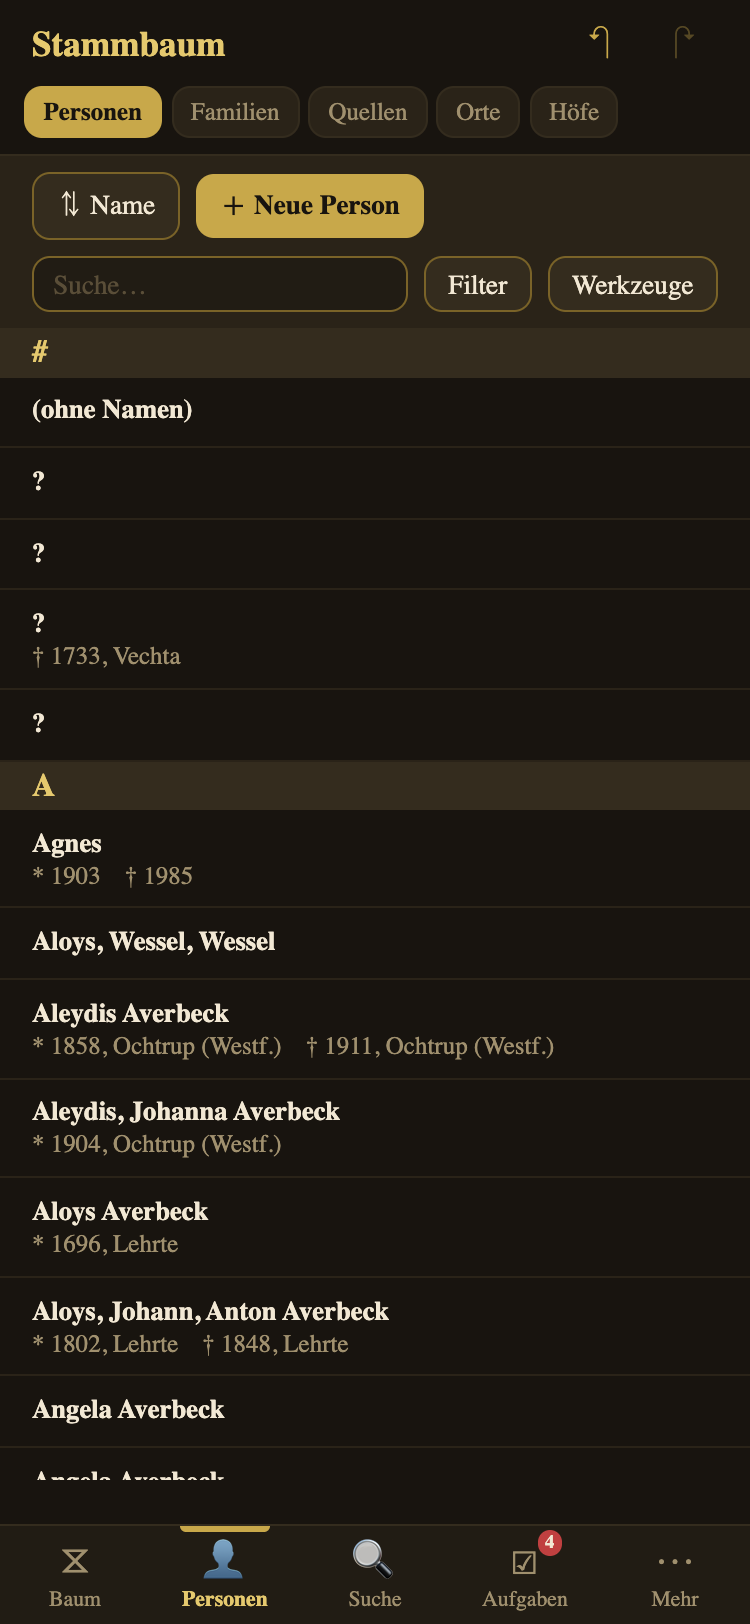
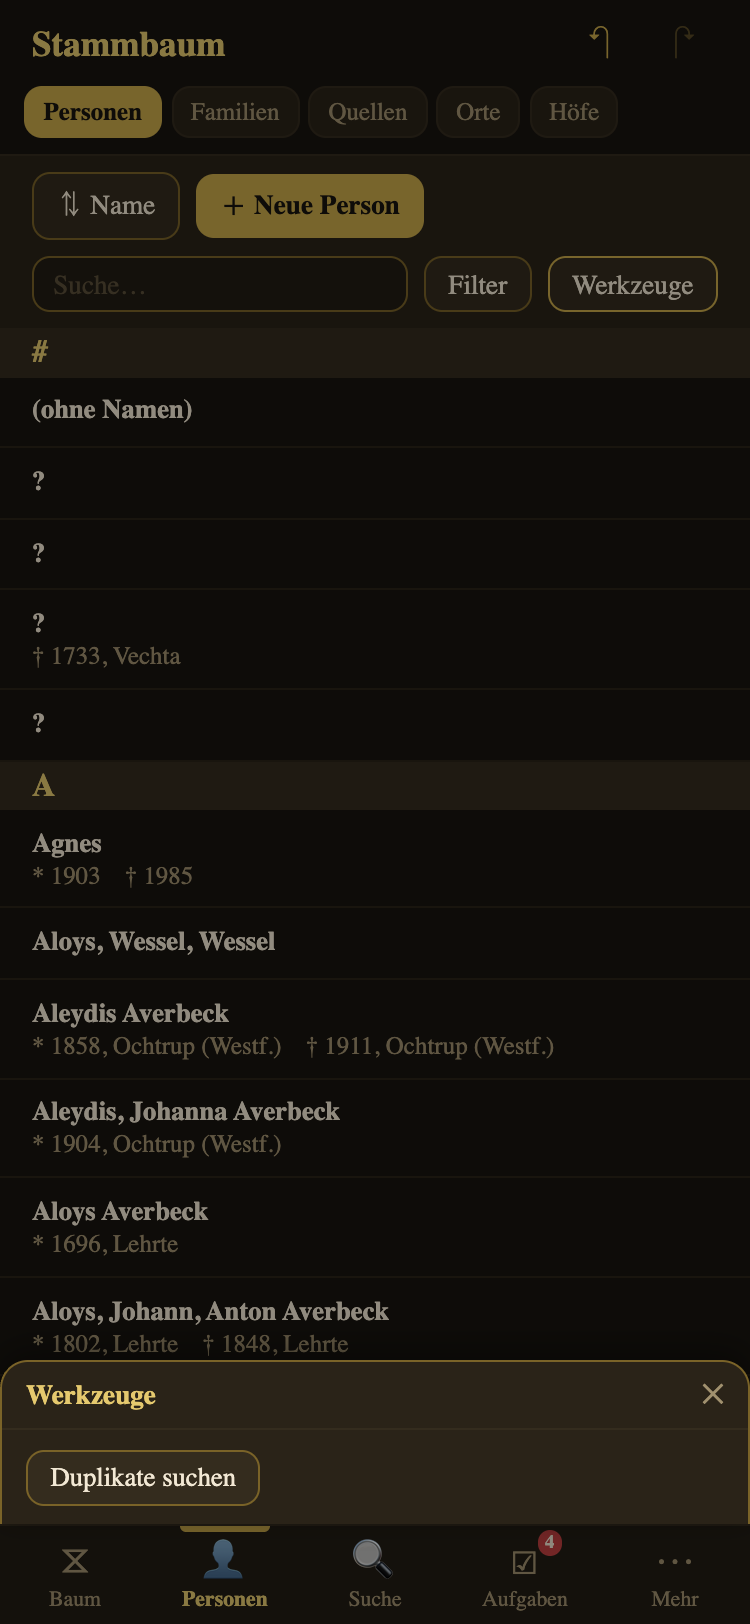
fix(ui): Heirat-„Y"-Leck, redundanter Quellen-Kontext + Handbuch-Klickhilfe
Drei aus dem Handbuch-Review belegte Defekte (Maßstab: realer Code):

#1  GEDCOM-Struktur-Flag value='Y' ("Ereignis fand statt, keine Details")
    erscheint nicht mehr als nackter Wert ("Heirat Y"). Zentral in der
    geteilten EventLine gefiltert (displayEventValue), damit MARR/ENGA die
    längst gelöste Todes-Sonderbehandlung mitziehen (INV-UI-4). Rein
    anzeigeseitig — Rohwert im Modell/Export unangetastet (LP-1).

#2  Quelle-Detail zeigt den Referenz-Kontext nur noch im Gruppen-Header
    ("Person (1)") statt zusätzlich je Zeile, und rendert Seitenangaben nur
    mit bezeichnendem Inhalt (hasPageContent) — kein "S. )" mehr aus dem
    Anonymisierungs-Rest "2 PAGE )".

#4  capture.mjs bevorzugt bei EXAKT-Treffern echte Bedien-Elemente vor
    umschließenden div/span (Wrapper-Klick löste den Button-onclick nicht
    aus) — die Filter/Werkzeuge-Panels erscheinen jetzt in 02/03.
    contains-Treffer bleiben unverändert (Personen-/Familienauswahl stabil).

Screenshots 02/03/07/09 neu erzeugt — reine Korrektur, keine Version/
Changelog/HTML-Änderung. Alle 1319 UI-Tests grün, lint grün.

diff --git a/tests/ui/SourceDetail.component.test.ts b/tests/ui/SourceDetail.component.test.ts
@@ -32,7 +32,9 @@ describe('SourceDetail — Referenzen inkl. PAGE/QUAY (Component)', () => {
     render(SourceDetail, { props: { appState, viewState, ...baseProps() } });
 
     expect(screen.getByText('Anna Bauer')).toBeTruthy();
-    expect(screen.getByText('Geburt')).toBeTruthy();
+    // #2 (2026-07-25): der Kontext ("Geburt") steht NUR im Gruppen-Header, nicht mehr
+    // zusätzlich je Zeile — deshalb hier gegen den Header "Geburt (1)" geprüft.
+    expect(screen.getByText('Geburt (1)')).toBeTruthy();
     expect(screen.getByText('S. 12')).toBeTruthy();
     expect(screen.getByText('QUAY 3')).toBeTruthy();
   });
@@ -84,6 +86,46 @@ describe('SourceDetail — Referenzen inkl. PAGE/QUAY (Component)', () => {
   });
 });
 
+describe('SourceDetail — Anzeige-Härtung (#2, 2026-07-25)', () => {
+  it('rendert KEIN "S. )" für eine Seitenangabe ohne bezeichnenden Inhalt (Anonymisierungs-Rest "2 PAGE )")', () => {
+    const appState = createAppState();
+    const viewState = createViewState();
+    const db = makeDatabase();
+    const p = makePerson('@I1@', { given: 'Anna', surname: 'Bauer' });
+    p.birth.citations.push(makeCitation('@S1@', { page: ')', quay: 3 }));
+    db.individuals.set('@I1@', p);
+    db.sources.set('@S1@', makeSource('@S1@', { abbr: 'KB' }));
+    appState.loadDatabase(db, 'test.ged');
+    viewState.setCurrent('source', '@S1@');
+
+    render(SourceDetail, { props: { appState, viewState, ...baseProps() } });
+
+    // Zeile erscheint (Person + QUAY), aber ohne die sinnlose Seitenangabe.
+    expect(screen.getByText('Anna Bauer')).toBeTruthy();
+    expect(screen.getByText('QUAY 3')).toBeTruthy();
+    expect(screen.queryByText(/S\./)).toBeNull();
+  });
+
+  it('wiederholt den Kontext NICHT je Zeile (steht nur im Gruppen-Header)', () => {
+    const appState = createAppState();
+    const viewState = createViewState();
+    const db = makeDatabase();
+    const p = makePerson('@I1@', { given: 'Anna', surname: 'Bauer' });
+    p.birth.citations.push(makeCitation('@S1@', { page: '12' }));
+    db.individuals.set('@I1@', p);
+    db.sources.set('@S1@', makeSource('@S1@'));
+    appState.loadDatabase(db, 'test.ged');
+    viewState.setCurrent('source', '@S1@');
+
+    render(SourceDetail, { props: { appState, viewState, ...baseProps() } });
+
+    // "Geburt" erscheint GENAU einmal — als Gruppen-Header "Geburt (1)", nicht zusätzlich
+    // als nackter Kontext-Text in der Zeile (früher doppelt).
+    expect(screen.getByText('Geburt (1)')).toBeTruthy();
+    expect(screen.queryByText('Geburt')).toBeNull();
+  });
+});
+
 describe('SourceDetail — Referenzen gruppiert + paginiert (Spec 21 §10b)', () => {
   it('gruppiert Referenzen nach Kontext-Typ mit "Typ (N)"-Untertitel', () => {
     const appState = createAppState();
@@ -121,18 +163,22 @@ describe('SourceDetail — Referenzen gruppiert + paginiert (Spec 21 §10b)', ()
     const groupHeader = screen.getByText('Geburt (45)');
     expect(groupHeader).toBeTruthy();
     expect(groupHeader.getAttribute('aria-expanded')).toBe('false');
-    expect(screen.queryAllByText('Geburt')).toHaveLength(0);
+    // #2 (2026-07-25): sichtbare Zeilen werden über die Eigentümer-Buttons gezählt (der
+    // frühere Zähl-Anker, die je Zeile wiederholte Kontext-Beschriftung "Geburt", ist als
+    // Redundanz entfallen — der Kontext steht jetzt nur im Gruppen-Header).
+    const ownerRows = () => screen.queryAllByRole('button', { name: /Person\d+ Bauer/ });
+    expect(ownerRows()).toHaveLength(0);
 
     await fireEvent.click(groupHeader);
 
     expect(groupHeader.getAttribute('aria-expanded')).toBe('true');
-    expect(screen.getAllByText('Geburt')).toHaveLength(30);
+    expect(ownerRows()).toHaveLength(30);
     const loadMoreBtn = screen.getByText('15 weitere laden');
     expect(loadMoreBtn).toBeTruthy();
 
     await fireEvent.click(loadMoreBtn);
 
-    expect(screen.getAllByText('Geburt')).toHaveLength(45);
+    expect(ownerRows()).toHaveLength(45);
     expect(screen.queryByText(/weitere laden/)).toBeNull();
   });
 });

diff --git a/tests/ui/EventLine.component.test.ts b/tests/ui/EventLine.component.test.ts
@@ -5,7 +5,7 @@
 import { describe, expect, it, vi } from 'vitest';
 import { render, screen, fireEvent } from '@testing-library/svelte';
 import EventLine from '../../ui/shell/EventLine.svelte';
-import { dedupeAddrNote, type EventLineRow } from '../../ui/shell/event-line-row';
+import { dedupeAddrNote, displayEventValue, type EventLineRow } from '../../ui/shell/event-line-row';
 import { createAppState } from '../../ui/shell/app-state.svelte';
 import { createViewState } from '../../ui/shell/view-state.svelte';
 import { makeCitation, makeDatabase, makeSource } from '../../core/model';
@@ -379,6 +379,63 @@ describe('EventLine — Note/Addr/Value', () => {
     });
 
     expect(container.querySelector('.event-line__note')?.textContent).toBe('zusätzliche Anmerkung');
+  });
+});
+
+// #1 (2026-07-25): GEDCOM-Struktur-Flag `value='Y'` ("Ereignis fand statt, keine
+// Details") darf NICHT als nackter Wert erscheinen — die auslösende Beobachtung war
+// "Heirat Y" im Familien-Detail. Zentral in der geteilten Ereigniszeile gefiltert, damit
+// die strukturgleiche Geschwister-Stelle zur längst gelösten Todes-Sonderbehandlung
+// mitzieht (INV-UI-4).
+describe('EventLine — GEDCOM-Flag value="Y" wird nicht als Wert angezeigt (#1)', () => {
+  it('zeigt für eine Heirat mit value="Y" KEINEN Wert-Text', () => {
+    const appState = createAppState();
+    const viewState = createViewState();
+
+    const { container } = render(EventLine, {
+      props: {
+        ev: row({ key: 'MARR', label: 'Heirat', value: 'Y' }),
+        appState,
+        viewState,
+        onEdit: vi.fn(),
+      },
+    });
+
+    expect(screen.getByText('Heirat')).toBeTruthy();
+    expect(screen.queryByText('Y')).toBeNull();
+    expect(container.querySelector('.event-line__value')).toBeNull();
+  });
+
+  it('lässt einen echten Wert (z. B. Beruf) unverändert stehen', () => {
+    const appState = createAppState();
+    const viewState = createViewState();
+
+    const { container } = render(EventLine, {
+      props: { ev: row({ label: 'Beruf', value: 'Lehrer' }), appState, viewState, onEdit: vi.fn() },
+    });
+
+    expect(container.querySelector('.event-line__value')?.textContent).toBe('Lehrer');
+  });
+});
+
+describe('displayEventValue (#1, reine Logik)', () => {
+  it('blankt den GEDCOM-Flag-Wert "Y"', () => {
+    expect(displayEventValue('Y')).toBe('');
+  });
+
+  it('blankt "Y" auch mit umgebendem Whitespace', () => {
+    expect(displayEventValue('  Y ')).toBe('');
+  });
+
+  it('lässt echte Werte unverändert (inkl. ungetrimmt)', () => {
+    expect(displayEventValue('Lehrer')).toBe('Lehrer');
+    expect(displayEventValue('  Bauer ')).toBe('  Bauer ');
+  });
+
+  it('trifft NUR das exakte Großbuchstaben-Token, nicht "Yes"/"y"/enthaltenes Y', () => {
+    expect(displayEventValue('Yes')).toBe('Yes');
+    expect(displayEventValue('y')).toBe('y');
+    expect(displayEventValue('Y2')).toBe('Y2');
   });
 });
 

diff --git a/ui/views/source/SourceDetail.svelte b/ui/views/source/SourceDetail.svelte
@@ -8,7 +8,7 @@
   import type { AppState } from '../../shell/app-state.svelte';
   import type { ViewState } from '../../shell/view-state.svelte';
   import DetailHeader from '../../shell/DetailHeader.svelte';
-  import { buildSourceDetail, type SourceReferenceRow } from './source-detail-model';
+  import { buildSourceDetail, hasPageContent, type SourceReferenceRow } from './source-detail-model';
   import { quayClassFor } from '../../shell/source-badge';
   import EventsByType from '../../shell/EventsByType.svelte';
   import SourceForm from './SourceForm.svelte';
@@ -67,8 +67,7 @@
   >
     {ref.ownerLabel}
   </button>
-  <span class="source-detail__ref-context">{ref.context}</span>
-  {#if ref.page}<span class="source-detail__ref-page">S. {ref.page}</span>{/if}
+  {#if hasPageContent(ref.page)}<span class="source-detail__ref-page">S. {ref.page}</span>{/if}
   <span class="source-detail__ref-quay {quayClassFor(ref.quay)}">
     QUAY {ref.quay}
   </span>
@@ -226,11 +225,10 @@
     text-decoration: underline;
   }
 
-  .source-detail__ref-context {
-    color: var(--stb-text-dim);
-    font-size: 0.85rem;
-  }
-
+  /* #2 (2026-07-25): der Referenz-Kontext ("Person"/"Geburt"/…) steht bereits im
+     Gruppen-Header (EventsByType rendert `{group.type} ({N})`, gruppiert nach genau
+     diesem `context`) — ihn zusätzlich je Zeile zu wiederholen war reine Redundanz
+     ("Person (1)" über einer Zeile "… Person S. …"). Deshalb kein `.ref-context` mehr. */
   .source-detail__ref-page {
     color: var(--stb-text-dim);
     font-size: 0.85rem;

diff --git a/ui/shell/EventLine.svelte b/ui/shell/EventLine.svelte
@@ -18,7 +18,7 @@
   import type { AppState } from './app-state.svelte';
   import type { ViewState } from './view-state.svelte';
   import type { LensId } from './lens-model';
-  import { dedupeAddrNote, type EventLineRow } from './event-line-row';
+  import { dedupeAddrNote, displayEventValue, type EventLineRow } from './event-line-row';
   import SourceBadge from './SourceBadge.svelte';
   import CoordIndicator from './CoordIndicator.svelte';
   import { tooltip } from './tooltip';
@@ -101,12 +101,17 @@
   // stehen schon in der Kopfzeile) — reine Anzeige-Dedup, Rohwerte bleiben unangetastet
   // (Untersuchung ADR-v9-53 Punkt 12: Einzelfall der Quelldaten, kein Parser-Muster).
   const displayNote = $derived(dedupeAddrNote(ev));
+
+  // GEDCOM-Struktur-Flag `Y` ("Ereignis fand statt, keine Details") ist kein Anzeige-
+  // wert — sonst erscheint z. B. "Heirat Y". Zentral hier für alle Konsumenten gefiltert
+  // (displayEventValue, event-line-row.ts) statt in jedem *-detail-model einzeln.
+  const shownValue = $derived(displayEventValue(ev.value));
 </script>
 
 <li class="event-line">
   <div class="event-line__head">
     <span class="event-line__label">{ev.label}</span>
-    {#if ev.value}<span class="event-line__value">{ev.value}</span>{/if}
+    {#if shownValue}<span class="event-line__value">{shownValue}</span>{/if}
     {#if ev.addr}<span class="event-line__value">{ev.addr}</span>{/if}
     {#if ev.dateLabel || ev.placeLabel}
       <span class="event-line__date">

diff --git a/ui/shell/event-line-row.ts b/ui/shell/event-line-row.ts
@@ -60,3 +60,25 @@ export function dedupeAddrNote(row: Pick<EventLineRow, 'note' | 'addr' | 'value'
   if (n === row.value.trim() || n === addr || n === addrFirstLine) return '';
   return row.note;
 }
+
+/**
+ * GEDCOM-Ereigniswert `Y` ist ein STRUKTUR-Flag ("das Ereignis fand statt, sonst keine
+ * Angaben" — GEDCOM 5.5.1 `EVENT_DETAIL`/`<<FAMILY_EVENT_STRUCTURE>>`, z. B. `1 MARR Y`),
+ * KEIN anzuzeigender Inhalt. Ungefiltert erscheint er als nacktes „Y" in der Kopfzeile —
+ * am sichtbarsten als „Heirat Y" im Familien-Detail.
+ *
+ * Die Todes-Projektion kennt diese Regel längst (`value='Y'` zählt dort NICHT als „echte
+ * Daten" — person-detail-model.ts / core/model/event.ts §48), aber die GETEILTE
+ * Ereigniszeile zog die strukturgleiche Geschwister-Stelle (MARR/ENGA u. a.) nicht mit.
+ * Deshalb hier ZENTRAL an der einen Render-Stelle (EventLine.svelte), die JEDER Konsument
+ * durchläuft (Person/Familie/Hof/Ort) — statt den Filter in jedem *-detail-model einzeln
+ * zu wiederholen (INV-UI-4, „ALLE Geschwister-Stellen mitziehen").
+ *
+ * Rein ANZEIGE-seitig (wie dedupeAddrNote): der Rohwert im Modell/Export bleibt
+ * unangetastet (LP-1). Vergleich getrimmt; `Y` ist ein GEDCOM-Großbuchstaben-Token.
+ *
+ * Gibt den anzuzeigenden Wert zurück (`''` = nichts zeigen).
+ */
+export function displayEventValue(value: string): string {
+  return value.trim() === 'Y' ? '' : value;
+}

diff --git a/tests/ui/source-detail-model.test.ts b/tests/ui/source-detail-model.test.ts
@@ -10,7 +10,24 @@ import {
   makeRepository,
   makeSource,
 } from '../../core/model';
-import { buildSourceDetail } from '../../ui/views/source/source-detail-model';
+import { buildSourceDetail, hasPageContent } from '../../ui/views/source/source-detail-model';
+
+describe('hasPageContent (#2, reine Logik)', () => {
+  it('false für den Anonymisierungs-Rest ")" und andere reine Satzzeichen/Whitespace', () => {
+    expect(hasPageContent(')')).toBe(false);
+    expect(hasPageContent('')).toBe(false);
+    expect(hasPageContent('   ')).toBe(false);
+    expect(hasPageContent('()')).toBe(false);
+    expect(hasPageContent('— , .')).toBe(false);
+  });
+
+  it('true, sobald mindestens ein Buchstabe oder eine Ziffer enthalten ist', () => {
+    expect(hasPageContent('12')).toBe(true);
+    expect(hasPageContent('S. 93/94')).toBe(true);
+    expect(hasPageContent('fol. iv')).toBe(true);
+    expect(hasPageContent('(12)')).toBe(true);
+  });
+});
 
 describe('buildSourceDetail — Referenzen inkl. PAGE/QUAY + verlinktes Archiv', () => {
   it('gibt null zurück, wenn die id im aktuellen Datenbestand fehlt (definierter Fallback)', () => {

diff --git a/ui/views/source/source-detail-model.ts b/ui/views/source/source-detail-model.ts
@@ -35,6 +35,17 @@ export interface SourceDetailModel {
   referencesByType: EventGroup<SourceReferenceRow>[];
 }
 
+/**
+ * #2 (2026-07-25): `citation.page` wird roh angezeigt (`S. {page}`). Die Demo-Fixture
+ * enthält einen Anonymisierungs-Rest `2 PAGE )` — ohne Prüfung erscheint „S. )". Der
+ * Rohwert bleibt byte-treu erhalten (LP-1); rein anzeigeseitig wird eine Seitenangabe nur
+ * dann gerendert, wenn sie überhaupt etwas Bezeichnendes trägt — mindestens einen
+ * Buchstaben oder eine Ziffer (reine Satzzeichen/Whitespace sind keine Fundstelle).
+ */
+export function hasPageContent(page: string): boolean {
+  return /[\p{L}\p{N}]/u.test(page);
+}
+
 function ownerLabel(db: Database, kind: 'person' | 'family', id: string): string {
   if (kind === 'person') {
     const p = db.individuals.get(id);
